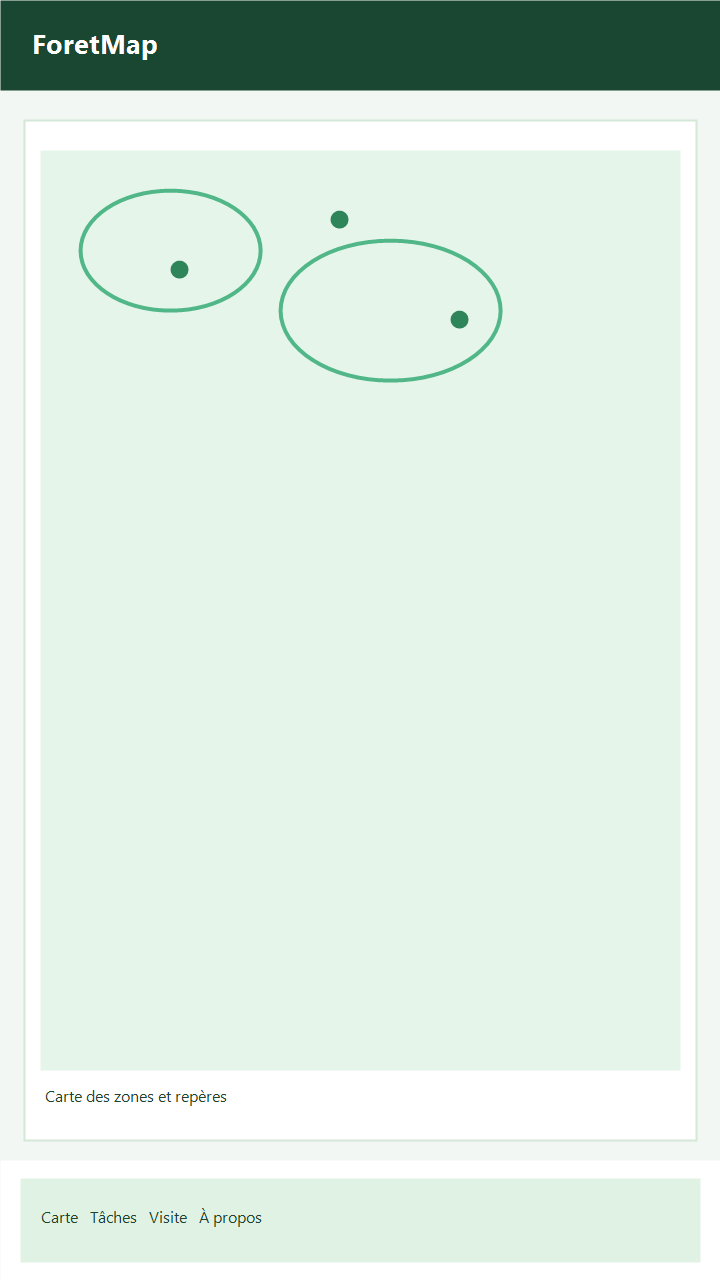
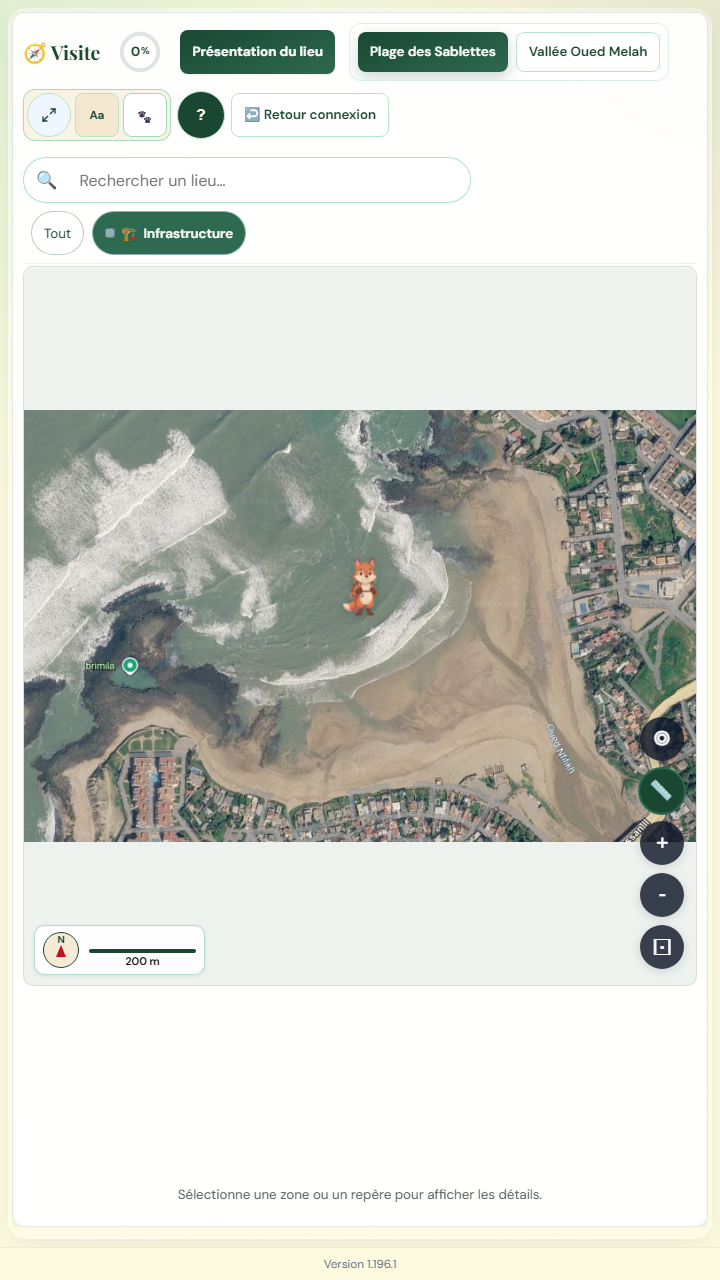
feat(pwa): vraies captures d'installation et script de régénération
Les captures du manifeste étaient des maquettes sans rapport avec l'interface.
Elles montrent désormais la visite publique (plan Sablettes, sans donnée nominative),
régénérables par `npm run pwa:screenshots`, et sortent du précache hors ligne.

diff --git a/scripts/capture-pwa-screenshots.js b/scripts/capture-pwa-screenshots.js
@@ -1,0 +1,162 @@
+#!/usr/bin/env node
+/**
+ * Régénère les captures d'écran du manifeste PWA (`public/pwa-screenshot-*.png`), affichées
+ * par Chrome/Edge dans la fenêtre d'installation enrichie.
+ *
+ * Écran photographié : la visite publique (« Visiter sans compte »). C'est la seule vue qui
+ * montre la vraie carte sans compte ni donnée nominative — aucune capture ne doit exposer un
+ * nom d'élève, puisque ces images sont servies publiquement.
+ *
+ * Usage :
+ *   npm run pwa:screenshots                                  (production, lecture seule)
+ *   npm run pwa:screenshots -- --base-url http://127.0.0.1:3000
+ *
+ * Les dimensions sont celles déclarées dans `public/manifest.json` : un écart entre le fichier
+ * et `sizes` fait ignorer la capture par le navigateur.
+ */
+'use strict';
+
+const path = require('path');
+const { chromium } = require('@playwright/test');
+
+const DEFAULT_BASE_URL = 'https://foretmap.olution.info';
+/** Plan public qui porte des zones en visite anonyme ; la carte de la forêt est réservée aux comptes. */
+const DEFAULT_MAP_ID = 'sablettes';
+const PUBLIC_DIR = path.resolve(__dirname, '..', 'public');
+
+/**
+ * Stockage local posé avant le chargement : plan affiché (`src/utils/lastViewedMap.js`),
+ * mascotte invitée déjà confirmée (`src/constants/app-runtime.js`) et visites guidées déjà
+ * vues — sinon une fenêtre d'accueil recouvre la carte au moment de la prise de vue.
+ */
+const DISCOVERY_TOUR_TAB_KEYS = [
+  'welcome',
+  'map',
+  'tasks',
+  'plants',
+  'visit',
+  'stats',
+  'quiz',
+  'glossary',
+  'foodweb',
+  'notebook',
+  'forum',
+  'tuto',
+  'profiles',
+  'settings',
+];
+
+const TARGETS = Object.freeze([
+  {
+    file: 'pwa-screenshot-mobile.png',
+    viewport: { width: 720, height: 1280 },
+    isMobile: true,
+  },
+  {
+    file: 'pwa-screenshot-wide.png',
+    viewport: { width: 1280, height: 720 },
+    isMobile: false,
+  },
+]);
+
+function parseArgs(argv) {
+  const args = {
+    baseUrl: process.env.PWA_SCREENSHOT_BASE_URL || DEFAULT_BASE_URL,
+    mapId: process.env.PWA_SCREENSHOT_MAP_ID || DEFAULT_MAP_ID,
+  };
+  for (let i = 0; i < argv.length; i += 1) {
+    if (argv[i] === '--base-url' && argv[i + 1]) {
+      args.baseUrl = argv[i + 1];
+      i += 1;
+    } else if (argv[i] === '--map' && argv[i + 1]) {
+      args.mapId = argv[i + 1];
+      i += 1;
+    }
+  }
+  args.baseUrl = String(args.baseUrl).replace(/\/+$/, '');
+  return args;
+}
+
+async function enterGuestVisit(page) {
+  const guestCta = page.getByRole('button', { name: /Visiter sans compte/i });
+  await guestCta.waitFor({ state: 'visible', timeout: 60_000 });
+  await guestCta.click();
+
+  await page.locator('.visit-view--guest-public').waitFor({ state: 'visible', timeout: 60_000 });
+  await page.locator('img.visit-map-img').first().waitFor({ state: 'visible', timeout: 60_000 });
+  await page.waitForLoadState('networkidle', { timeout: 30_000 }).catch(() => {});
+  const overlay = page.locator('.visit-mascot-onboarding, .discovery-tour');
+  if (
+    await overlay
+      .first()
+      .isVisible()
+      .catch(() => false)
+  ) {
+    throw new Error('une fenêtre recouvre la carte (onboarding mascotte ou visite guidée)');
+  }
+  await page.evaluate(() => globalThis.document.fonts?.ready);
+  // Laisse la mascotte et les transitions de zones se poser avant la prise de vue.
+  await page.waitForTimeout(1500);
+}
+
+async function captureTarget(browser, { baseUrl, mapId }, target) {
+  const context = await browser.newContext({
+    viewport: target.viewport,
+    deviceScaleFactor: 1,
+    isMobile: target.isMobile,
+    hasTouch: target.isMobile,
+    locale: 'fr-FR',
+    serviceWorkers: 'block',
+  });
+  await context.addInitScript(
+    ({ map, tabKeys }) => {
+      const seen = {};
+      for (const key of tabKeys) seen[key] = true;
+      localStorage.setItem('foretmap_active_map', map);
+      localStorage.setItem('foretmap_visit_guest_mascot_confirmed_v1', '1');
+      localStorage.setItem('foretmap_discovery_seen_v1', JSON.stringify(seen));
+    },
+    { map: mapId, tabKeys: DISCOVERY_TOUR_TAB_KEYS },
+  );
+  try {
+    const page = await context.newPage();
+    await page.goto(`${baseUrl}/`, { waitUntil: 'domcontentloaded' });
+    try {
+      await enterGuestVisit(page);
+    } catch (error) {
+      const debugPath = path.resolve(__dirname, '..', 'tmp', `pwa-screenshot-echec-${target.file}`);
+      await page.screenshot({ path: debugPath }).catch(() => {});
+      throw new Error(`${error.message}\n  état de la page : ${debugPath}`);
+    }
+    const output = path.join(PUBLIC_DIR, target.file);
+    await page.screenshot({ path: output, fullPage: false });
+    return output;
+  } finally {
+    await context.close();
+  }
+}
+
+async function main() {
+  const args = parseArgs(process.argv.slice(2));
+  console.log(`[pwa:screenshots] cible : ${args.baseUrl} (plan « ${args.mapId} »)`);
+  const browser = await chromium.launch();
+  try {
+    for (const target of TARGETS) {
+      const output = await captureTarget(browser, args, target);
+      console.log(
+        `[pwa:screenshots] ${target.viewport.width}x${target.viewport.height} → ${path.relative(process.cwd(), output)}`,
+      );
+    }
+  } finally {
+    await browser.close();
+  }
+}
+
+if (require.main === module) {
+  main().catch((error) => {
+    console.error(`[pwa:screenshots] échec : ${error.message}`);
+    process.exit(1);
+  });
+}
+
+module.exports = { TARGETS, parseArgs };

diff --git a/tests/build-pwa.test.js b/tests/build-pwa.test.js
@@ -96,6 +96,10 @@ test('FORET_STATIC_ASSETS reste aligné sur STATIC_ASSETS de public/sw.js', () =
   assert.deepStrictEqual([...FORET_STATIC_ASSETS], listed);
 });
 
+test("les captures d'installation ne sont pas précachées (inutiles hors ligne)", () => {
+  assert.ok(FORET_STATIC_ASSETS.every((url) => !url.startsWith('/pwa-screenshot-')));
+});
+
 test('collectEntryFiles suit les imports statiques (récursifs) et ignore les chunks dynamiques', () => {
   const files = collectEntryFiles(FAKE_VITE_MANIFEST, 'index.vite.html');
   assert.deepStrictEqual(files, [

diff --git a/public/sw.js b/public/sw.js
@@ -19,8 +19,6 @@ const STATIC_ASSETS = [
   '/pwa-icon-192.png',
   '/pwa-icon-512.png',
   '/pwa-maskable-512.png',
-  '/pwa-screenshot-mobile.png',
-  '/pwa-screenshot-wide.png',
 ];
 
 // URLs d'API en lecture (correspondance exacte pathname)

diff --git a/scripts/build-pwa.js b/scripts/build-pwa.js
@@ -49,8 +49,6 @@ const FORET_STATIC_ASSETS = Object.freeze([
   '/pwa-icon-192.png',
   '/pwa-icon-512.png',
   '/pwa-maskable-512.png',
-  '/pwa-screenshot-mobile.png',
-  '/pwa-screenshot-wide.png',
 ]);
 
 /**

diff --git a/CHANGELOG.md b/CHANGELOG.md
@@ -9,6 +9,10 @@ Le numéro de version suit [Semantic Versioning](https://semver.org/lang/fr/) (M
 
 ## [Non publié]
 
+### Modifié — vraies captures dans la fenêtre d'installation de l'application
+
+Les deux captures du manifeste PWA (`public/pwa-screenshot-mobile.png`, `pwa-screenshot-wide.png`), affichées par Chrome et Edge au moment d'installer l'application, étaient des maquettes (ellipses sur fond vert, sans rapport avec l'interface). Elles sont remplacées par de vraies captures de la visite publique (plan « Plage des Sablettes », aucun compte ni donnée nominative), régénérables par `npm run pwa:screenshots` (`scripts/capture-pwa-screenshots.js`, Playwright ; `--base-url` pour viser un serveur local, `--map` pour changer de plan). Elles sortent aussi du précache hors ligne (`public/sw.js`, `scripts/build-pwa.js`), où elles ne servaient à rien. Test : `tests/build-pwa.test.js`.
+
 ### Corrigé — recherche de lieux : « n3 » trouve « N³ »
 
 La normalisation des recherches de lieux (plan, Visite, carte de travail) décomposait en `NFD`, qui laisse les exposants intacts ; « ³ » était ensuite supprimé comme ponctuation, si bien que « N³ » était indexé « n » et restait introuvable en tapant « n3 ». `normalizeSearchText` (`src/shared/search/placeSearch.js`) et `normalizeMapSearchText` (`src/utils/mapLocationFilters.js`) passent en `NFKD` : exposants et indices sont ramenés à leur chiffre (« N³ » → « n3 », « CO₂ » → « co2 »). Tests : `tests-ui/shared/placeSearch.test.js`, `tests-ui/utils/mapLocationFilters.test.js`. Doc : `docs/reference/plan/presentation.md`.
